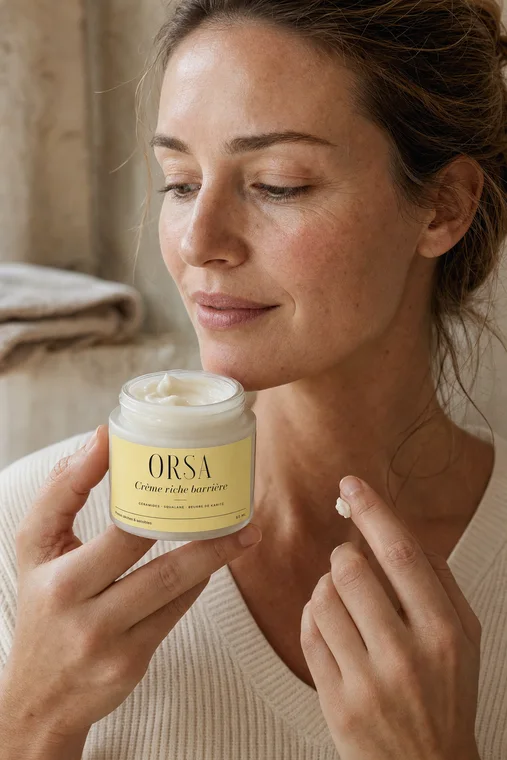
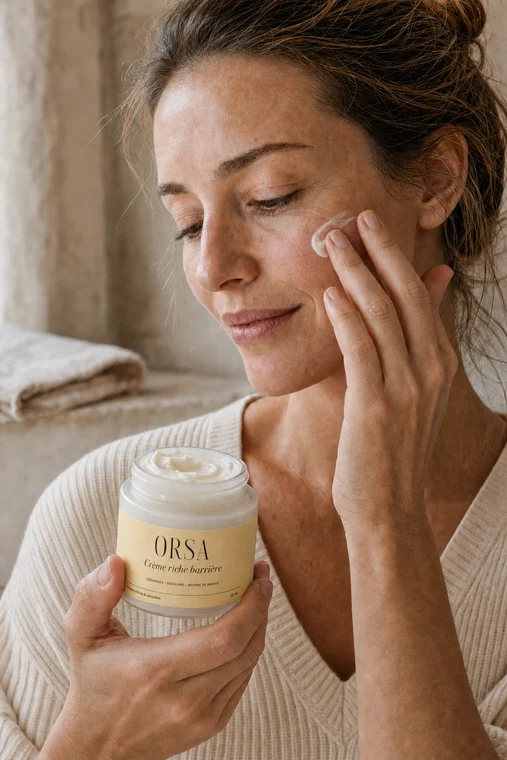
Carrousel : nouvelle photo Orsa, pose de main naturelle et étiquette intégrée au pot

diff --git a/index.html b/index.html
@@ -90,7 +90,7 @@
     <div class="carrousel-rail">
       <ul class="carrousel-liste">
         <li class="carte-projet"><img src="assets/img/carrousel/oktan.webp" width="507" height="760" alt="Pots de whey OKTAN sur un bloc de béton, avec des éclats de chocolat" decoding="async"><div class="carte-legende"><strong>OKTAN</strong><span>Compléments</span></div></li>
-        <li class="carte-projet"><img src="assets/img/carrousel/orsa.webp" width="507" height="760" alt="Une femme ouvre le pot de crème Orsa, une noisette de crème au bout du doigt" decoding="async"><div class="carte-legende"><strong>Orsa</strong><span>Cosmétiques</span></div></li>
+        <li class="carte-projet"><img src="assets/img/carrousel/orsa.webp?v=202611281330" width="507" height="760" alt="Une femme applique la crème Orsa sur sa pommette, le pot ouvert dans l'autre main" decoding="async"><div class="carte-legende"><strong>Orsa</strong><span>Cosmétiques</span></div></li>
         <li class="carte-projet"><img src="assets/img/carrousel/arde.webp?v=202611271600" width="507" height="760" alt="Bouteilles de sauce piquante Ardé sur une pierre, avec des piments fumés" decoding="async"><div class="carte-legende"><strong>Ardé</strong><span>Épicerie fine</span></div></li>
         <li class="carte-projet"><img src="assets/img/carrousel/velia.webp" width="507" height="760" alt="Main qui tient l'étui de collagène Vélia, sticks posés sur une pierre claire" decoding="async"><div class="carte-legende"><strong>Vélia</strong><span>Compléments</span></div></li>
         <li class="carte-projet"><img src="assets/img/carrousel/ocelie.webp" width="507" height="760" alt="Flacons d'huile lavante Océlie sur une pierre, avec du sel marin" decoding="async"><div class="carte-legende"><strong>Océlie</strong><span>Cosmétiques</span></div></li>
